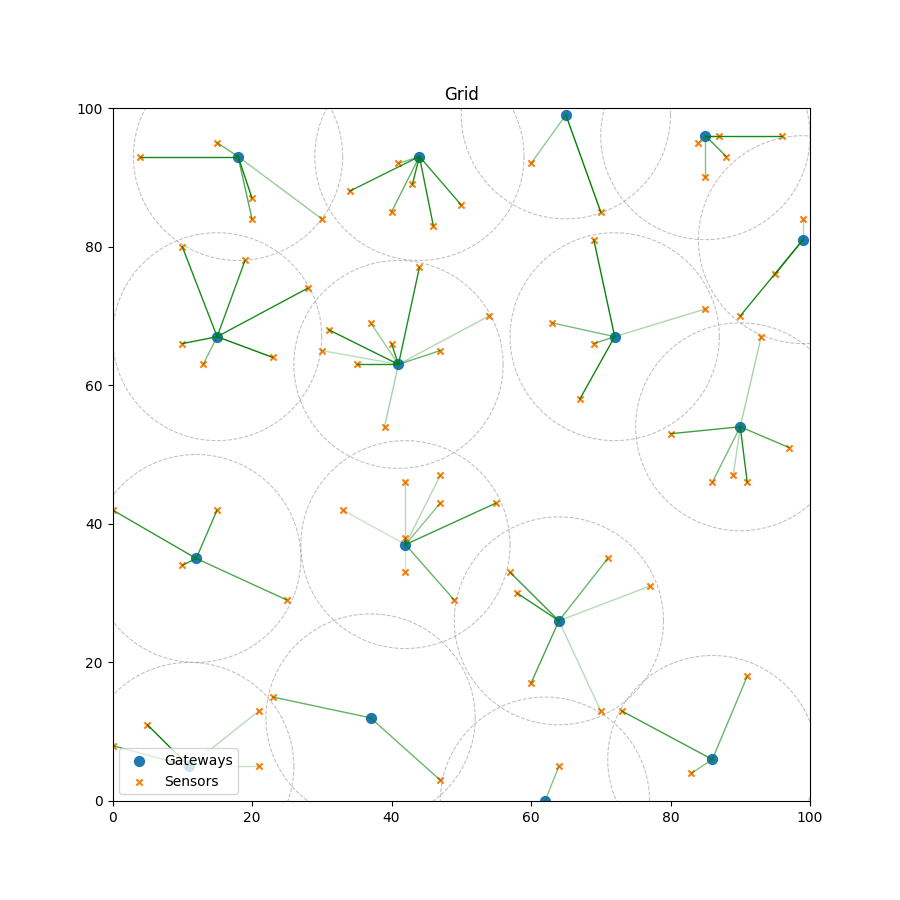
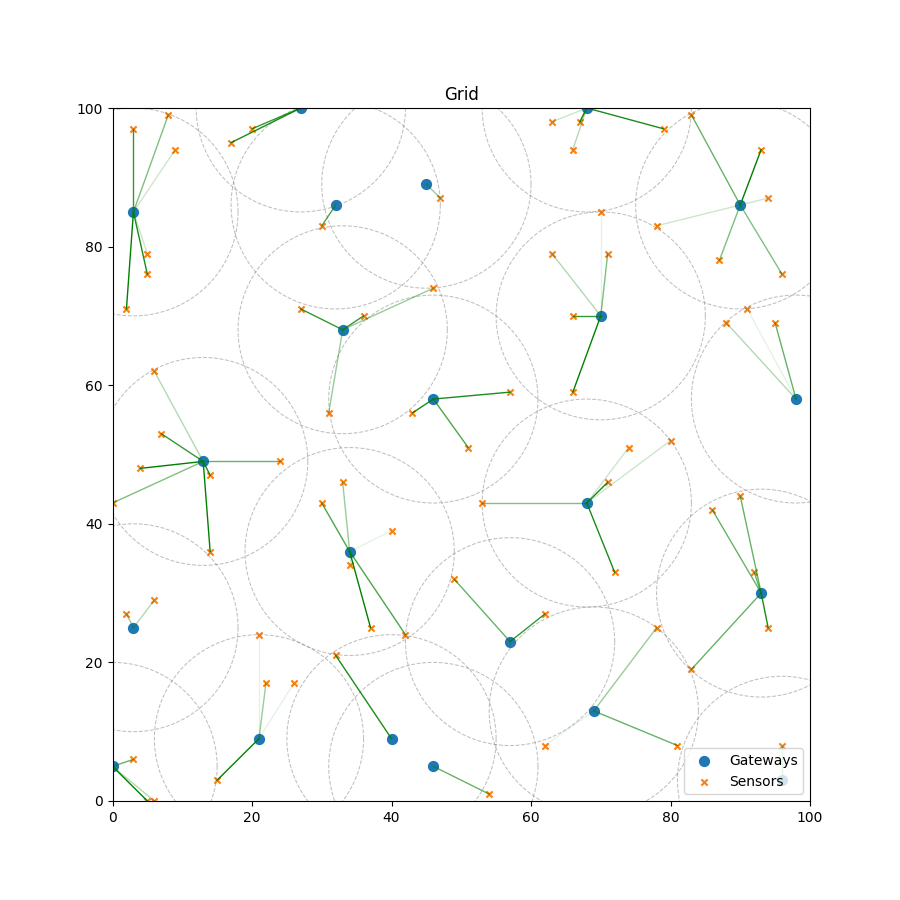
sensor scores will be considered

diff --git a/functions/clustering.py b/functions/clustering.py
@@ -55,28 +55,39 @@ def develop_model(model:mip.model.Model, grid:Grid, sensor_set:set, gateway_loca
             - `mip.model.Model` : model that is developed by objectives
             and constraints
     """
+    distance_condition = lambda x1, y1, x2, y2 : 0 <= helpers.calculate_distance(
+            (x1, y1), (x2, y2)
+        ) <= distance_threshold
 
     # Aim is to minimize the total number of gateways
     # covering the sensors placed on the grid
     model.objective = mip.model.minimize(
         mip.model.xsum([
-            gateway_locations[gateway_y][gateway_x] * (0 <= helpers.calculate_distance(
-                (sensor.get_x(), sensor.get_y()), (gateway_x, gateway_y)
-            ) <= distance_threshold)
-            for gateway_y in grid.get_height_as_range()
+            gateway_locations[gateway_y][gateway_x] * distance_condition(
+                sensor.get_x(), sensor.get_y(), gateway_x, gateway_y)
             for gateway_x in grid.get_width_as_range()
+            for gateway_y in grid.get_height_as_range()
             for sensor in sensor_set
         ])
     )
 
+    # A constraint for the model is that the average score
+    # of the sensors covered by the same gateway should
+    # be at least 5 (maximum : 10)
+    """for gateway_y in grid.get_height_as_range():
+        for gateway_x in grid.get_width_as_range():
+            model += mip.model.xsum([
+                gateway_locations[gateway_y][gateway_x] * distance_condition(
+                    sensor.get_x(), sensor.get_y(), gateway_x, gateway_y)
+                for sensor in sensor_set
+            ]) >= 5"""
+
     # A constraint for the model is that the number of
     # gateways covering a sensor should be at least 1
     for sensor in sensor_set:
-        sensor_x, sensor_y = sensor.get_x(), sensor.get_y()
         model += mip.model.xsum([
-            gateway_locations[gateway_y][gateway_x] * (0 <= helpers.calculate_distance(
-                (sensor_x, sensor_y), (gateway_x, gateway_y)
-            ) <= distance_threshold)
+            gateway_locations[gateway_y][gateway_x] * distance_condition(
+                sensor.get_x(), sensor.get_y(), gateway_x, gateway_y)
             for gateway_x in grid.get_width_as_range()
             for gateway_y in grid.get_height_as_range()
         ]) >= 1

diff --git a/functions/helpers.py b/functions/helpers.py
@@ -4,8 +4,8 @@ import matplotlib.pyplot as plt
 from structs import Grid, Sensor
 
 
-MAX_SCORE = 100
-MIN_SCORE = 20
+MAX_SCORE = 10
+MIN_SCORE = 1
 
 
 def generate_sensors(size:int, sensor_count:int) -> set:
@@ -60,6 +60,10 @@ def generate_circle(center:tuple, radius:int) -> tuple:
         Arguments:
             - center : `tuple` center location of the circle
             - radius : `int` radiues of the center
+
+        Return:
+            - `np.ndarray` : circle-plot data on x axis
+            - `np.ndarray` : circle-plot data on y axis
     """
     center_x, center_y = center
     theta = np.linspace(0, 2*np.pi, 150)

diff --git a/functions/visualizer.py b/functions/visualizer.py
@@ -93,7 +93,7 @@ def show_grid(sensor_set:set, gateway_set:set, grid:Grid, distance_threshold:int
 
                 plt.plot(
                     x_data, y_data,
-                    color="g", alpha=sensor.get_score()/100,
+                    color="g", alpha=sensor.get_score()/10,
                     linestyle='-', linewidth=1)
             
     plt.legend()

diff --git a/structs/node.py b/structs/node.py
@@ -88,3 +88,9 @@ class Gateway(Node):
     def get_covered_sensors(self) -> set:
         return self.get_covered_nodes()
 
+    def get_total_score(self) -> int:
+        return self.__calc_scores()[0]
+
+    def get_average_score(self) -> float:
+        return self.__calc_scores()[1]
+
